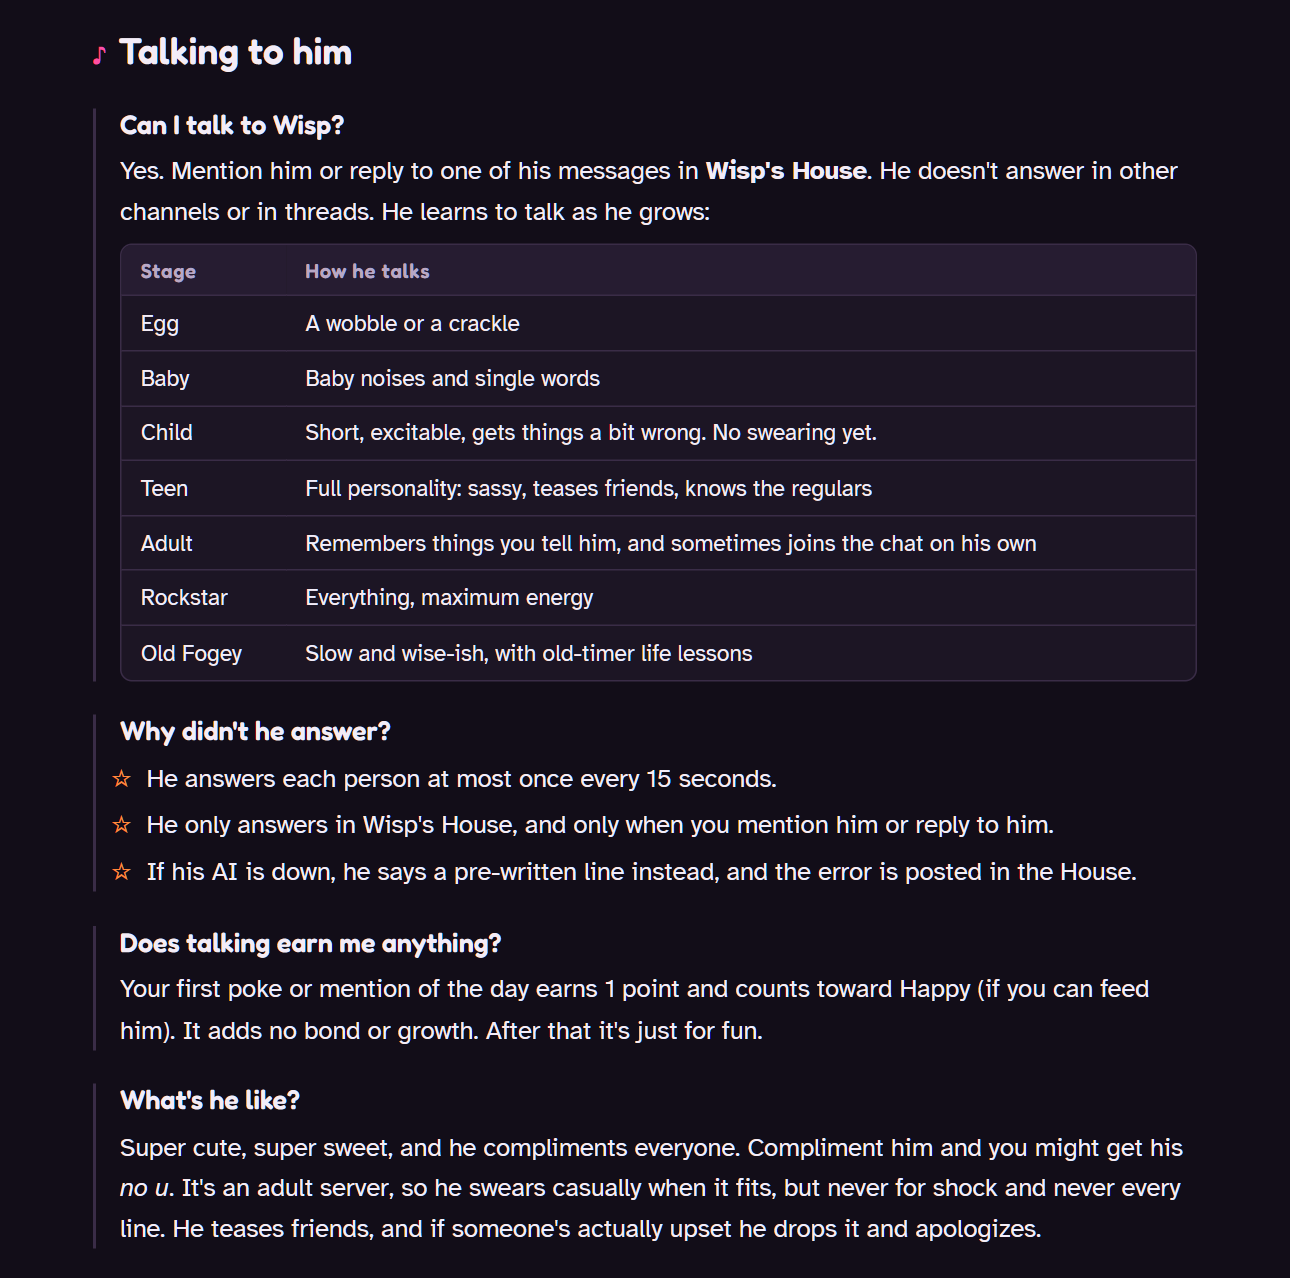
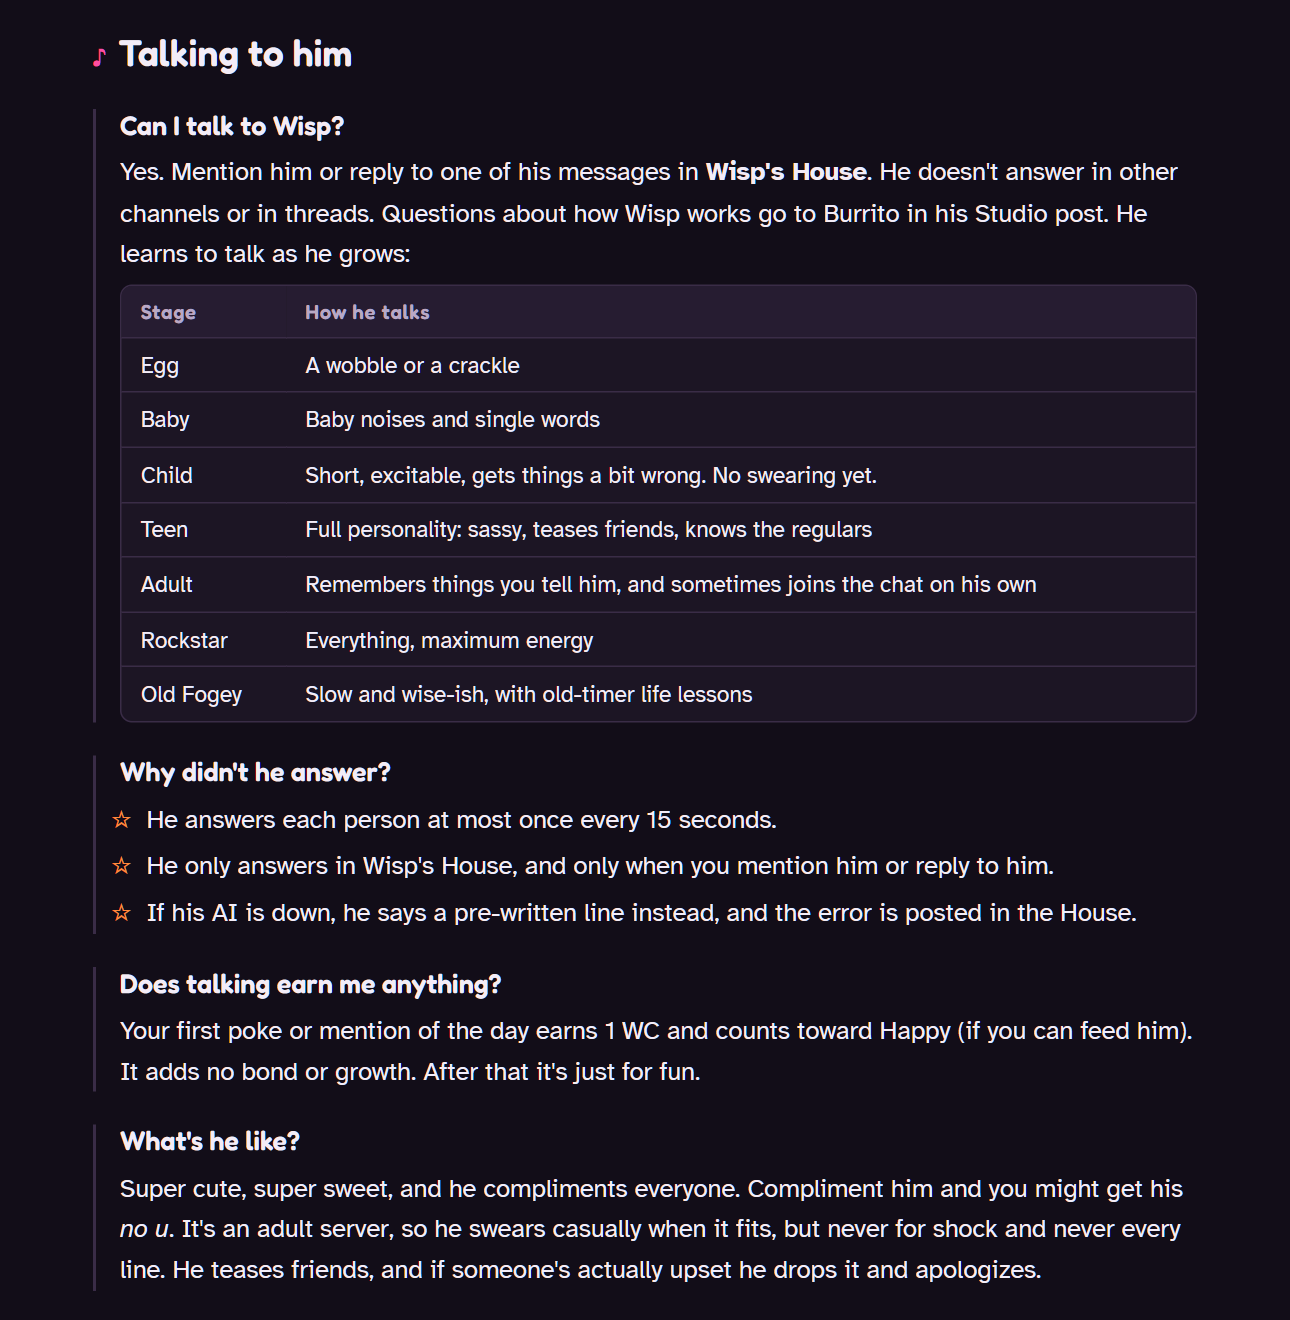
docs: FAQ says wisp coins for spending; re-render the changed FAQ pictures

Changed region(s): [[0.093, 0.0915, 0.9302, 0.7019], [0.093, 0.8545, 0.9302, 0.9765], [0.093, 0.7324, 0.9302, 0.8239]]

diff --git a/DOCS/wisp_faq.html b/DOCS/wisp_faq.html
@@ -155,7 +155,7 @@ footer { color: var(--muted); font-size: .9rem; border-top: 1px solid var(--line
       <h3>What do Hunger, Happy and Care mean?</h3>
       <ul>
         <li><strong>Hunger</strong> is his food. Like a Tamagotchi, a full bar means he's well fed. Tracks and snacks fill it, and it drains 15 a day. Below 30 he gets hangry, and if it hits zero, he dies.</li>
-        <li><strong>Happy</strong> counts how many <em>different</em> people said hi in the last 24 hours. Your first poke or chat of the day counts and earns you 1 point. Five people is full Happy. It's about how many show up, not how much one person does.</li>
+        <li><strong>Happy</strong> counts how many <em>different</em> people said hi in the last 24 hours. Your first poke or chat of the day counts and earns you 1 wisp coin (WC). Five people is full Happy. It's about how many show up, not how much one person does.</li>
         <li><strong>Care</strong> is rhyme duels and gifts. It starts at 50 and drains 10 a day. Below 30 he gets lonely and grumpy, but it never hurts him.</li>
       </ul>
     </div>
@@ -211,12 +211,12 @@ footer { color: var(--muted); font-size: .9rem; border-top: 1px solid var(--line
       <h3>What's the difference?</h3>
       <ul>
         <li><strong>The ViiBR Vault</strong> is Wisp's shop: snacks, gifts and the leaderboard. Open it with <span class="cmd">/wisp vault</span> or the <em>Shop the Vault</em> button.</li>
-        <li><strong>Your Snack Pack</strong> is yours. <span class="cmd">/wisp snackpack</span> shows your points, the snacks you've saved, any keepsakes Wisp has given you and your badges.</li>
+        <li><strong>Your Snack Pack</strong> is yours. <span class="cmd">/wisp snackpack</span> shows your wisp coins, the snacks you've saved, any keepsakes Wisp has given you and your badges.</li>
       </ul>
     </div>
     <div class="qa">
       <h3>What do snacks cost?</h3>
-      <p>You pay with the points you earn from sharing tracks, your first poke or chat of the day, and rhyme duels. Spending never lowers your spot on the leaderboard, because your rank counts everything you've ever earned.</p>
+      <p>You pay with wisp coins (WC), which you earn from sharing tracks, your first poke or chat of the day, and rhyme duels. Spending never lowers your spot on the leaderboard, because your rank counts every coin you've ever earned.</p>
       <div class="table-wrap">
         <table>
           <thead><tr><th scope="col">Snack</th><th scope="col">Cost</th><th scope="col">Hunger</th><th scope="col">How he takes it</th></tr></thead>
@@ -258,10 +258,10 @@ footer { color: var(--muted); font-size: .9rem; border-top: 1px solid var(--line
     </div>
     <div class="qa">
       <h3>How do gifts work?</h3>
-      <p>The Vault sells seven collections: <strong>Lunchbox Liners</strong>, <strong>Alien Dolls</strong>, <strong>Books</strong>, <strong>Affirmation Cards</strong>, <strong>Tamagotchis</strong>, <strong>Tetris</strong> and <strong>Jewels</strong>. A gift costs 15 points, and it's a gamble: he likes about one gift in three. Every gift you buy fills his Care by 8, whether he keeps it or not.</p>
+      <p>The Vault sells seven collections: <strong>Lunchbox Liners</strong>, <strong>Alien Dolls</strong>, <strong>Books</strong>, <strong>Affirmation Cards</strong>, <strong>Tamagotchis</strong>, <strong>Tetris</strong> and <strong>Jewels</strong>. A gift costs 15 WC, and it's a gamble: he likes about one gift in three. Every gift you buy fills his Care by 8, whether he keeps it or not.</p>
       <ul>
         <li><strong>He likes it:</strong> it goes into his lunchbox with your name on it, and it's gone from the Vault. You get +5 bond.</li>
-        <li><strong>He doesn't:</strong> it goes back to the Vault. Your points are spent either way.</li>
+        <li><strong>He doesn't:</strong> it goes back to the Vault. Your coins are spent either way.</li>
         <li><strong>Finish a collection:</strong> whoever gives the last missing item of a set gets +25 bond.</li>
       </ul>
     </div>
@@ -365,7 +365,7 @@ footer { color: var(--muted); font-size: .9rem; border-top: 1px solid var(--line
     </div>
     <div class="qa">
       <h3>Does talking earn me anything?</h3>
-      <p>Your first poke or mention of the day earns 1 point and counts toward Happy (if you can feed him). It adds no bond or growth. After that it's just for fun.</p>
+      <p>Your first poke or mention of the day earns 1 WC and counts toward Happy (if you can feed him). It adds no bond or growth. After that it's just for fun.</p>
     </div>
     <div class="qa">
       <h3>What's he like?</h3>
@@ -386,7 +386,7 @@ footer { color: var(--muted); font-size: .9rem; border-top: 1px solid var(--line
     </div>
     <div class="qa">
       <h3>Who can play?</h3>
-      <p>Anyone. Your best score always goes on the leaderboard. A duel only counts as playing with him (Care, bond, growth and 1 point) if you're a qualifying member and you landed at least one rhyme, up to 5 duels a day.</p>
+      <p>Anyone. Your best score always goes on the leaderboard. A duel only counts as playing with him (Care, bond, growth and 1 WC) if you're a qualifying member and you landed at least one rhyme, up to 5 duels a day.</p>
     </div>
   </section>
 
